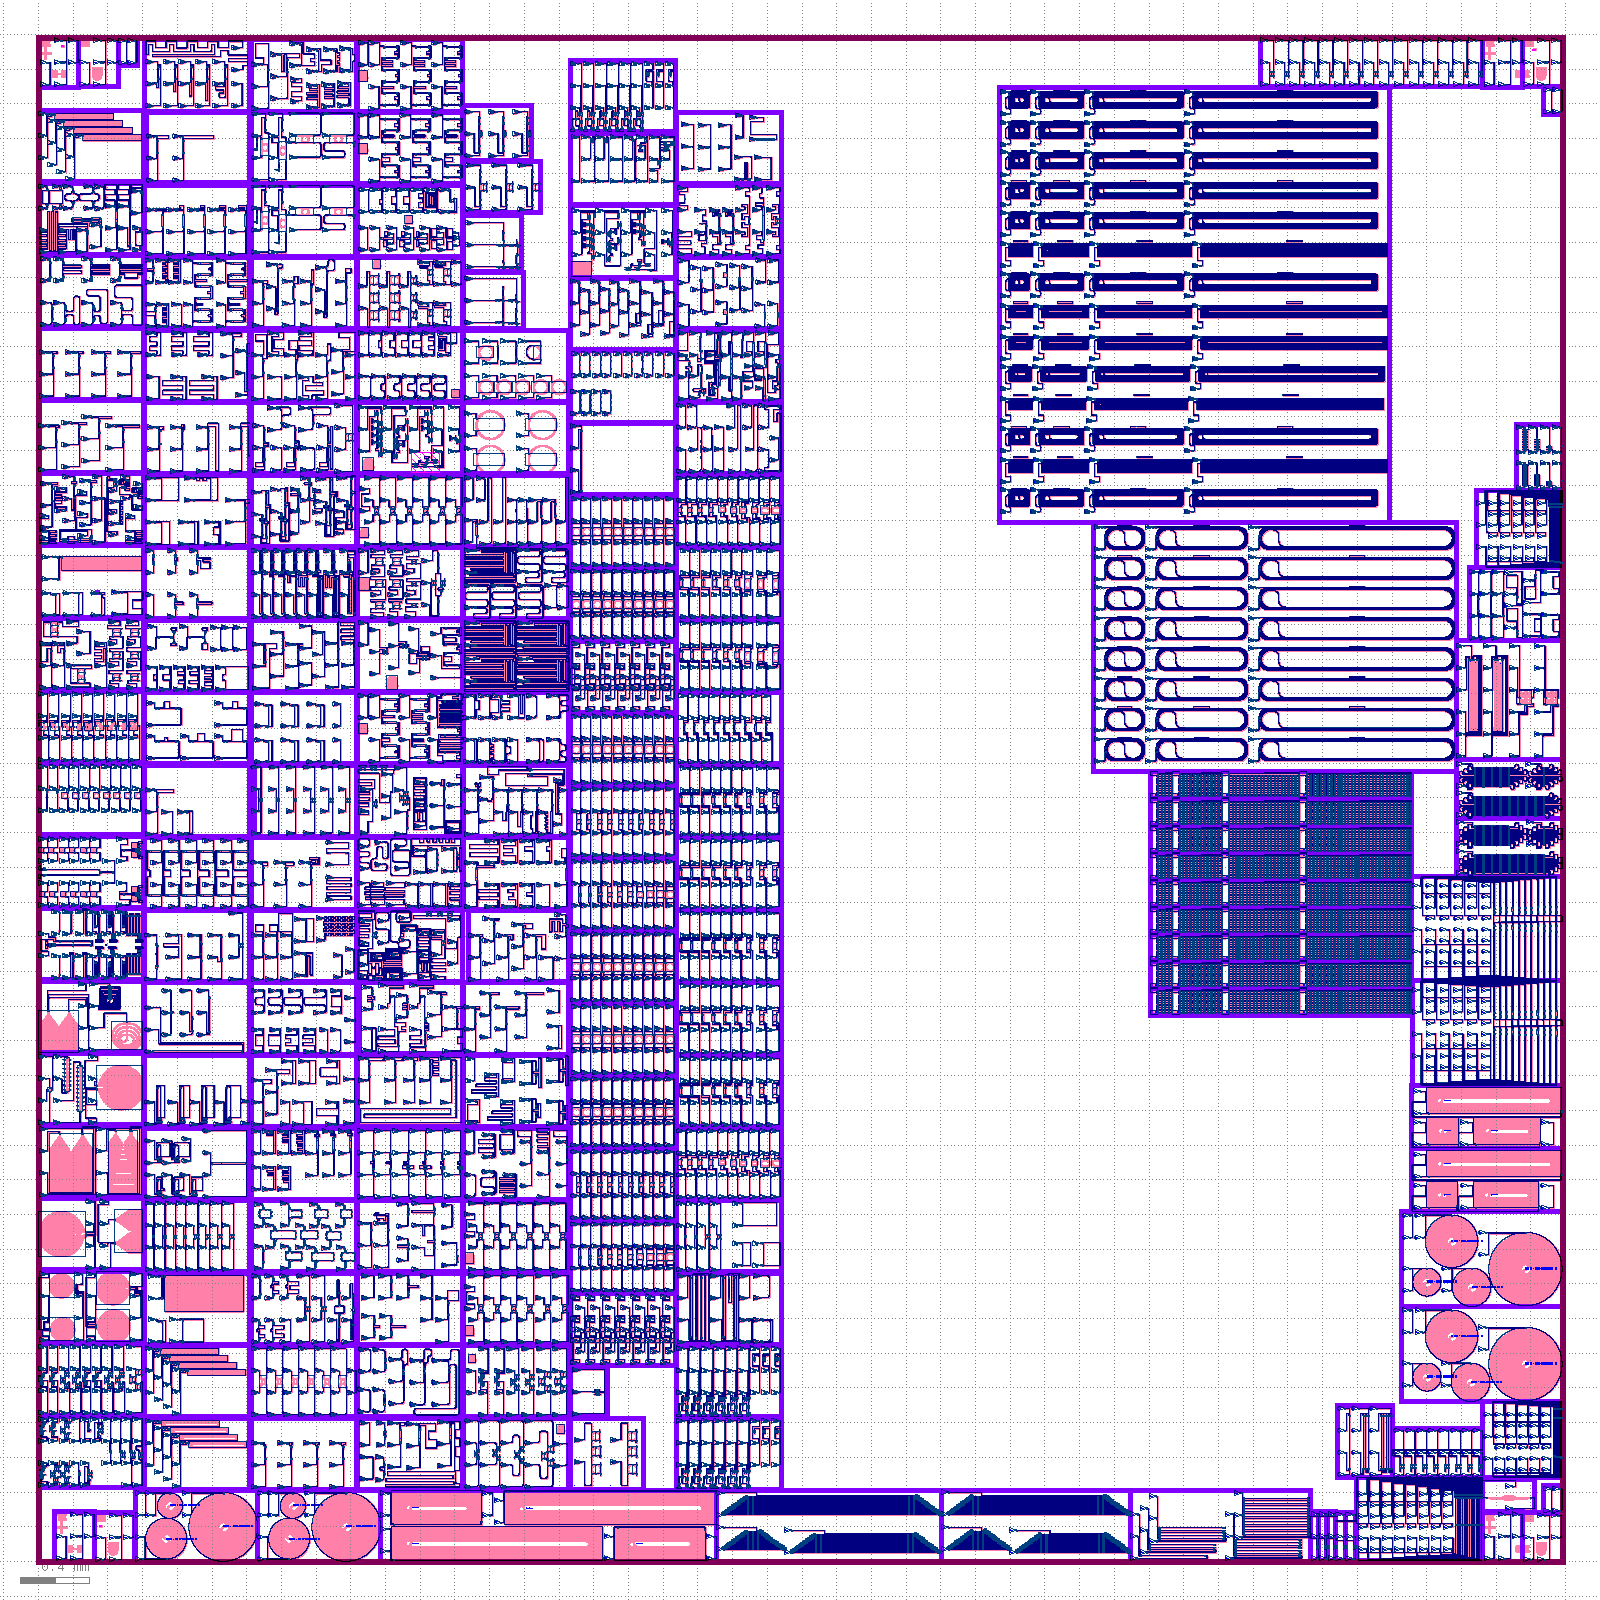
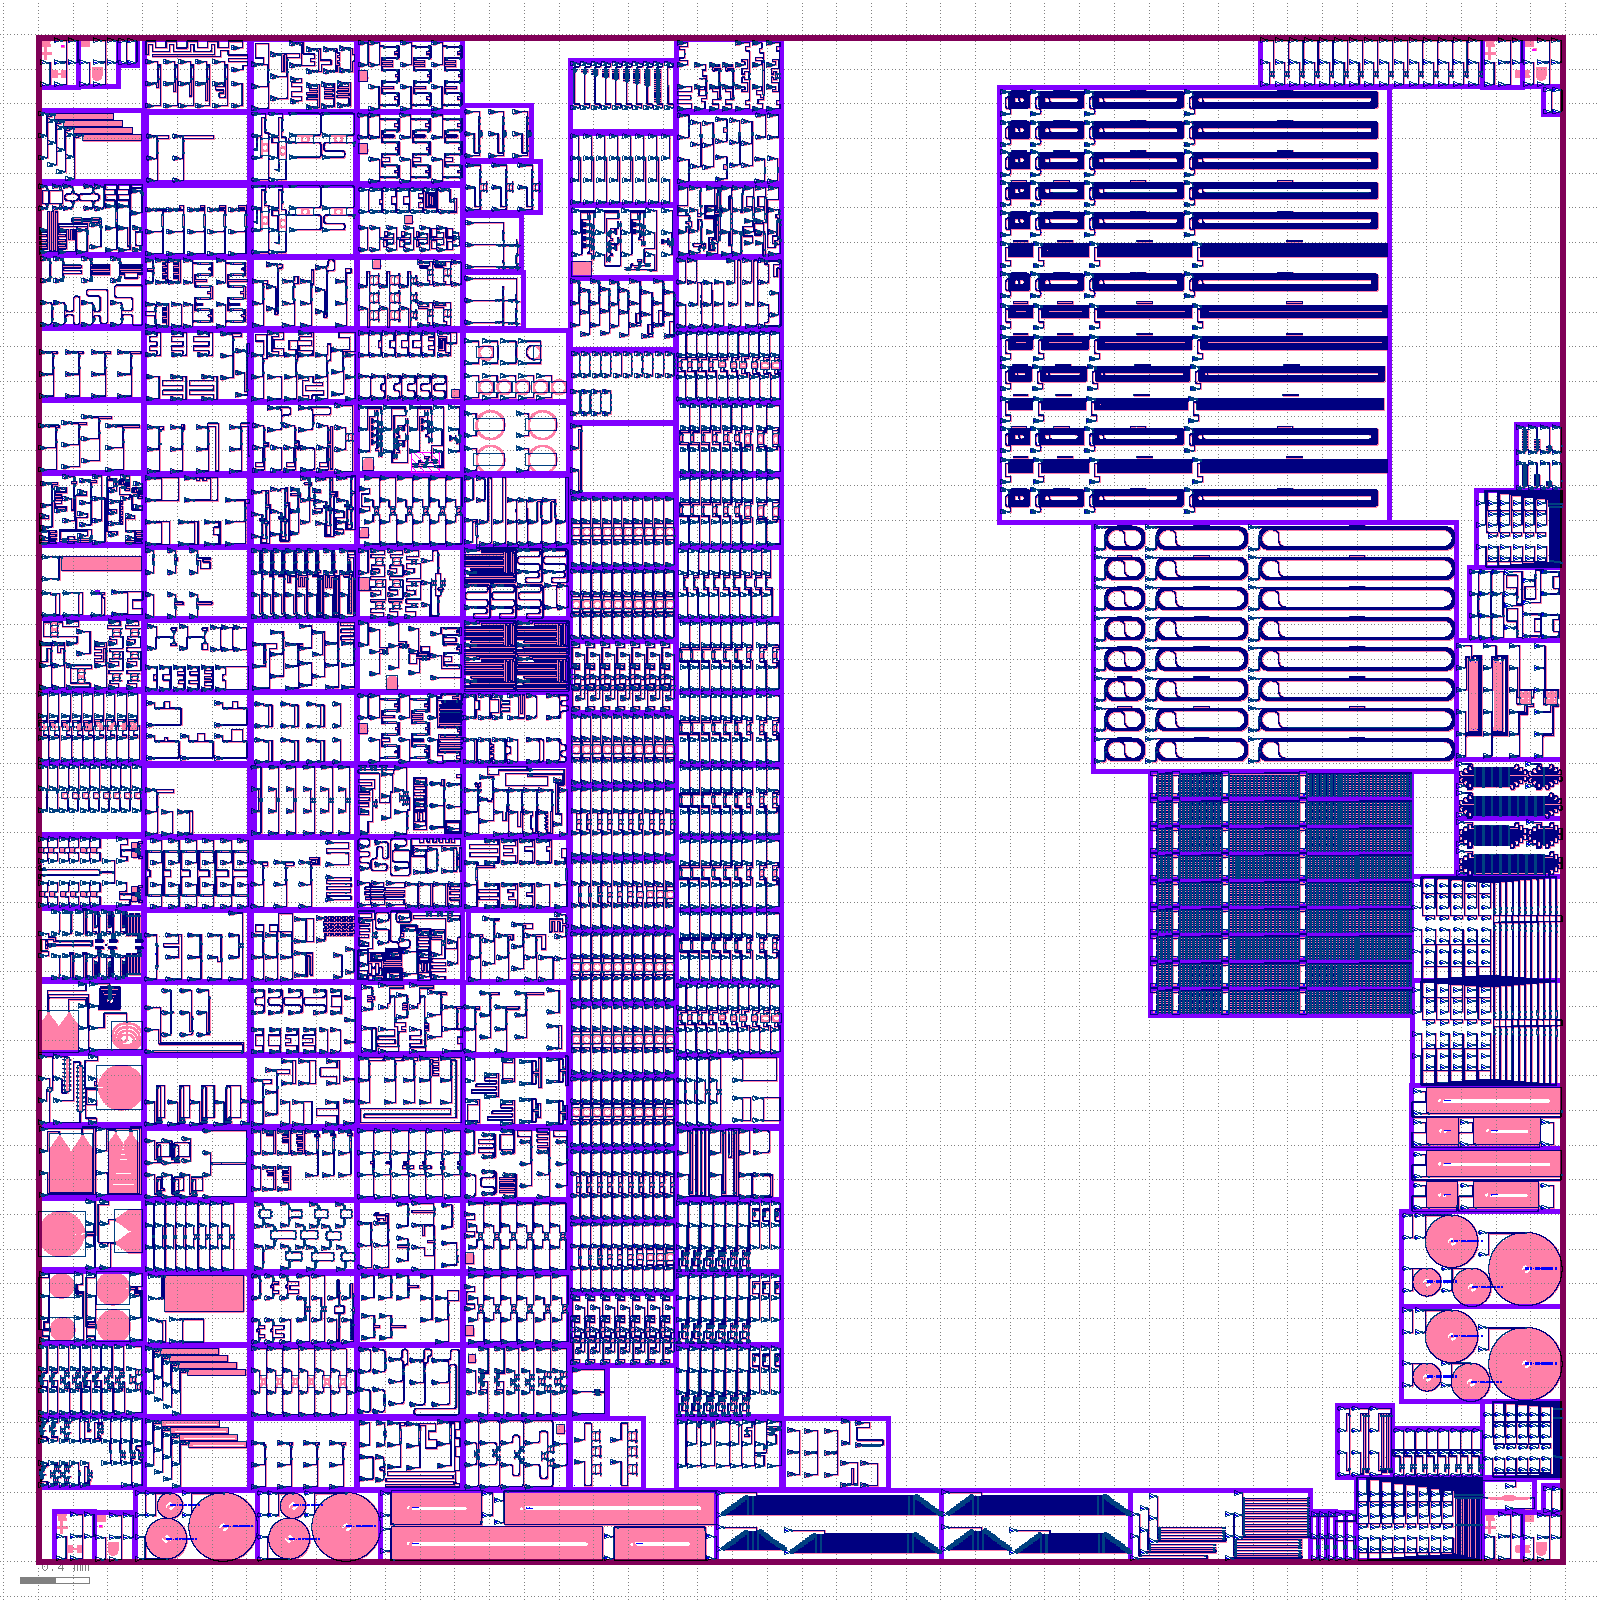
Aggregation layout: https://github.com/SiEPIC/openEBL-2026-05/actions/runs/26033203306/artifacts/7057616830

Changed region(s): [[0.3438, 0.0312, 0.5, 0.5], [0.4062, 0.5938, 0.5, 0.8438], [0.4062, 0.875, 0.5625, 0.9375]]

diff --git a/README.md b/README.md
@@ -91,5 +91,5 @@ Will be added here.
 
 Click on the following link to download the EBeam.oas merged layout file:
 <!-- start-link -->
-https://github.com/SiEPIC/openEBL-2026-05/actions/runs/25989612983/artifacts/7042011695
+https://github.com/SiEPIC/openEBL-2026-05/actions/runs/26033203306/artifacts/7057616830
 <!-- end-link -->